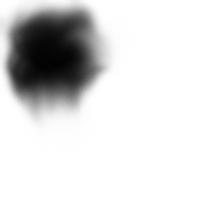
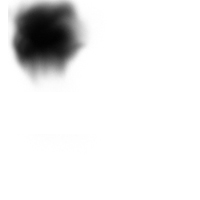
fix circle map issue

Changed region(s): [[0.0, 0.0, 0.57, 0.6]]

diff --git a/main.py b/main.py
@@ -21,7 +21,9 @@ if __name__ =="__main__":
     IMAGE_OUTPUT_PATH = './image_output/'
     ROADMAP_RECTANGLE = ['./image_input/roadMapRectangle_00.jpg']
     ROADMAP_CIRCLE = ['./image_input/roadMapCircle_00.jpg',
-                        './image_input/roadMapCircle_01.jpg']
+                        './image_input/roadMapCircle_01.jpg',
+                        './image_input/roadMapCircle_02.jpg',
+                        './image_input/roadMapCircle_03.jpg']
 
     if not os.path.exists(IMAGE_OUTPUT_PATH):
         os.mkdir(IMAGE_OUTPUT_PATH)

diff --git a/direction.py b/direction.py
@@ -91,7 +91,7 @@ class RoadMapCircle(RoadMapBase):
         columnIndexList = np.where(rowSum==np.max(rowSum))[0]
         centerX = rowIndexList[len(rowIndexList)//2]
         centerY = columnIndexList[len(columnIndexList)//2]
-        self.center = [centerX, centerY]
+        self.center = [centerY, centerX]
         return self.center
 
     def getMainDirection(self, position):
